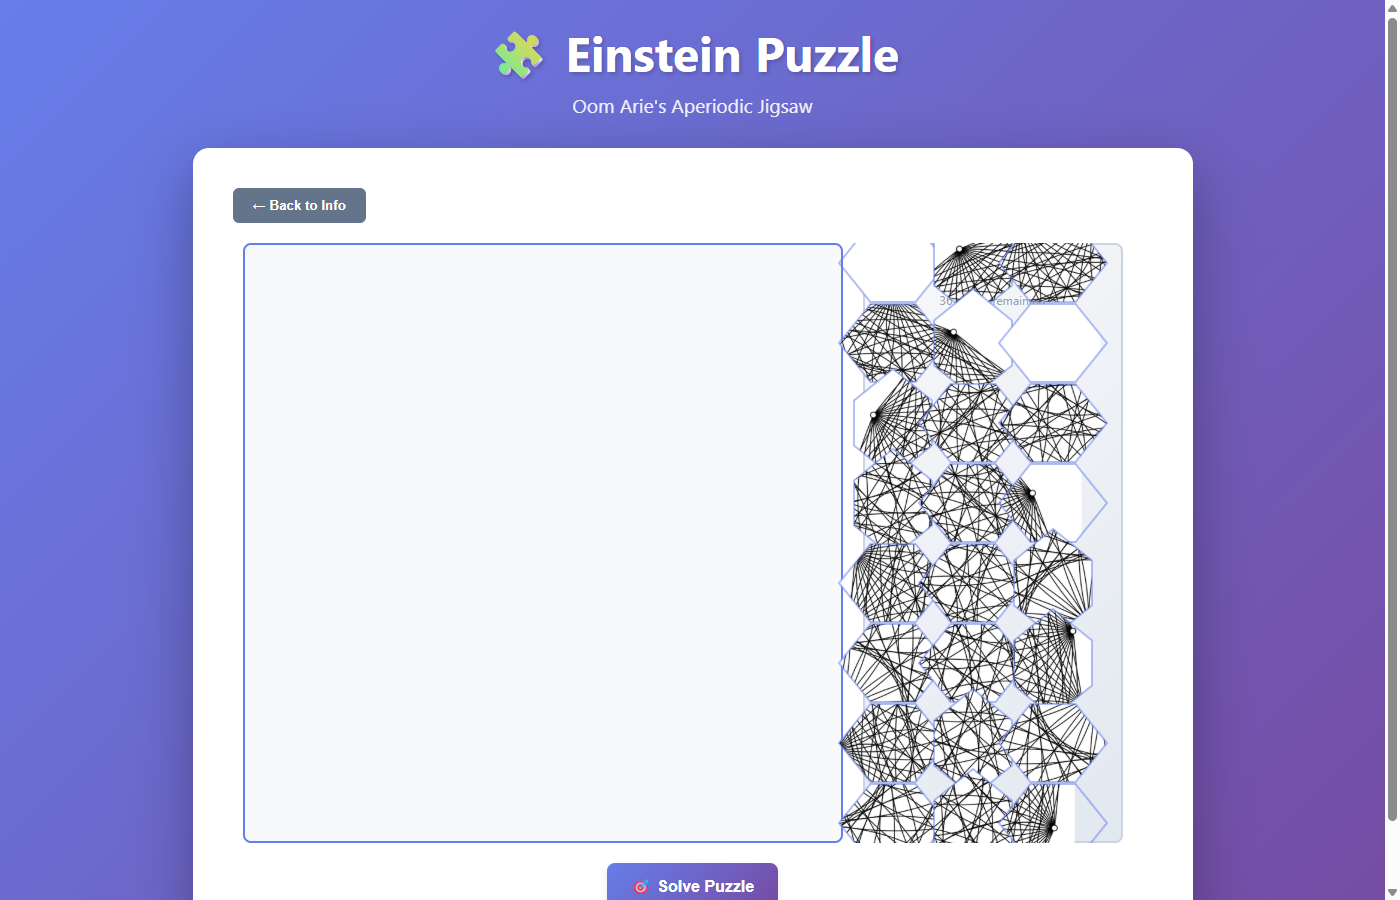
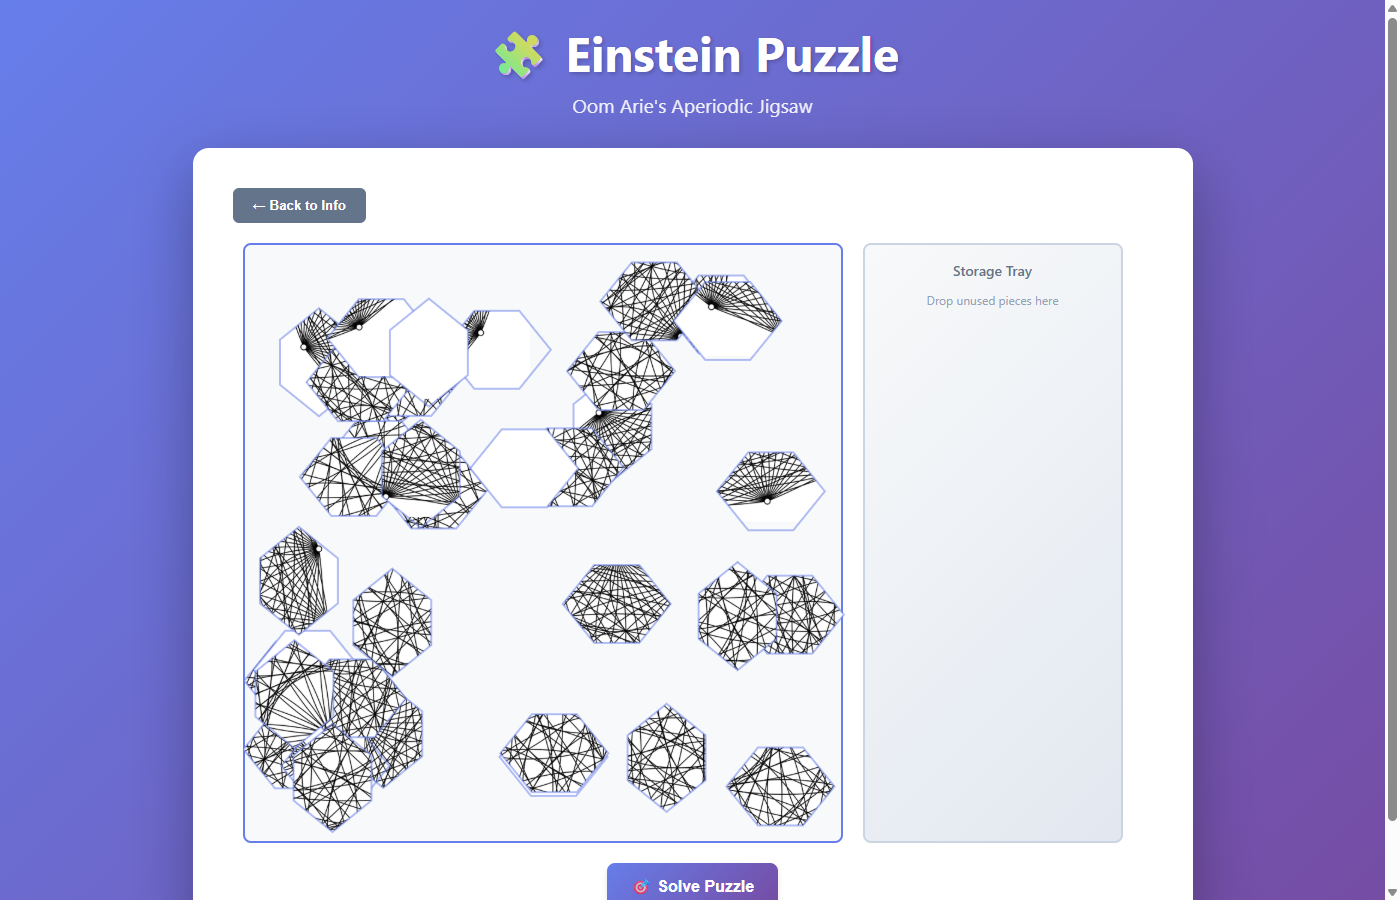
Fix puzzle gameplay: Pieces start scattered on board
BREAKING CHANGE: Reversed puzzle logic to match traditional jigsaw behavior

- Pieces now start randomly scattered on the puzzle board
- Storage tray is empty, used for temporarily storing unused pieces
- Solve button shows pieces in correct positions (not full image)
- Borders hidden when solved for clean view
- Can see where each piece belongs after solving

This makes the puzzle actually playable - you arrange scattered pieces
into the correct pattern, with the tray available for pieces you're
not working on yet.

diff --git a/src/components/PuzzleBoard.tsx b/src/components/PuzzleBoard.tsx
@@ -9,12 +9,11 @@ interface PuzzleBoardProps {
 export function PuzzleBoard({ config, pieces: initialPieces }: PuzzleBoardProps) {
   const containerRef = useRef<HTMLDivElement>(null);
   const [pieces, setPieces] = useState(() => {
-    // Start pieces in tray on the right
-    const trayX = config.canvasSize + 50;
-    return initialPieces.map((piece, index) => ({
+    // Start pieces randomly scattered on the board
+    return initialPieces.map((piece) => ({
       ...piece,
-      currentX: trayX + (index % 3) * 80,
-      currentY: 20 + Math.floor(index / 3) * 80,
+      currentX: Math.random() * (config.canvasSize - 100) + 50,
+      currentY: Math.random() * (config.canvasSize - 100) + 50,
     }));
   });
   const [draggedPiece, setDraggedPiece] = useState<string | null>(null);
@@ -180,7 +179,7 @@ export function PuzzleBoard({ config, pieces: initialPieces }: PuzzleBoardProps)
             marginBottom: '12px',
             textAlign: 'center'
           }}>
-            Puzzle Pieces
+            Storage Tray
           </h3>
           <p style={{
             color: '#94a3b8',
@@ -188,7 +187,7 @@ export function PuzzleBoard({ config, pieces: initialPieces }: PuzzleBoardProps)
             textAlign: 'center',
             marginBottom: '8px'
           }}>
-            {pieces.filter(p => !p.isPlaced).length} pieces remaining
+            Drop unused pieces here
           </p>
         </div>
 
@@ -203,55 +202,43 @@ export function PuzzleBoard({ config, pieces: initialPieces }: PuzzleBoardProps)
             pointerEvents: 'all'
           }}
         >
-          {/* Show complete image when solved */}
-          {isSolved && (
-            <image
-              href={config.imageUrl}
-              width={config.canvasSize}
-              height={config.canvasSize}
-              x={0}
-              y={0}
-            />
-          )}
+          {/* Always show puzzle pieces */}
+          <defs>
+            {pieces.map(piece => (
+              <clipPath key={`clip-${piece.id}`} id={`clip-${piece.id}`}>
+                <polygon points={piece.polygon.points.map(p => `${p.x},${p.y}`).join(' ')} />
+              </clipPath>
+            ))}
+          </defs>
 
-          {/* Show puzzle pieces when not solved */}
-          {!isSolved && (
-            <>
-              <defs>
-                {pieces.map(piece => (
-                  <clipPath key={`clip-${piece.id}`} id={`clip-${piece.id}`}>
-                    <polygon points={piece.polygon.points.map(p => `${p.x},${p.y}`).join(' ')} />
-                  </clipPath>
-                ))}
-              </defs>
-
-              {pieces.map(piece => (
-                <g
-                  key={piece.id}
-                  transform={`translate(${piece.currentX - piece.correctX}, ${piece.currentY - piece.correctY})`}
-                >
-                  <image
-                    href={config.imageUrl}
-                    width={config.canvasSize}
-                    height={config.canvasSize}
-                    x={0}
-                    y={0}
-                    clipPath={`url(#clip-${piece.id})`}
-                    style={{ cursor: 'move' }}
-                    onMouseDown={(e) => handleMouseDown(e as unknown as React.MouseEvent, piece.id)}
-                  />
-                  <polygon
-                    points={piece.polygon.points.map(p => `${p.x},${p.y}`).join(' ')}
-                    fill="none"
-                    stroke={piece.isPlaced ? '#10b981' : '#667eea'}
-                    strokeWidth={piece.isPlaced ? 3 : 2}
-                    opacity={0.5}
-                    pointerEvents="none"
-                  />
-                </g>
-              ))}
-            </>
-          )}
+          {pieces.map(piece => (
+            <g
+              key={piece.id}
+              transform={`translate(${piece.currentX - piece.correctX}, ${piece.currentY - piece.correctY})`}
+            >
+              <image
+                href={config.imageUrl}
+                width={config.canvasSize}
+                height={config.canvasSize}
+                x={0}
+                y={0}
+                clipPath={`url(#clip-${piece.id})`}
+                style={{ cursor: isSolved ? 'default' : 'move' }}
+                onMouseDown={(e) => !isSolved && handleMouseDown(e as unknown as React.MouseEvent, piece.id)}
+              />
+              {/* Show borders when not solved */}
+              {!isSolved && (
+                <polygon
+                  points={piece.polygon.points.map(p => `${p.x},${p.y}`).join(' ')}
+                  fill="none"
+                  stroke={piece.isPlaced ? '#10b981' : '#667eea'}
+                  strokeWidth={piece.isPlaced ? 3 : 2}
+                  opacity={0.5}
+                  pointerEvents="none"
+                />
+              )}
+            </g>
+          ))}
         </svg>
       </div>
 
